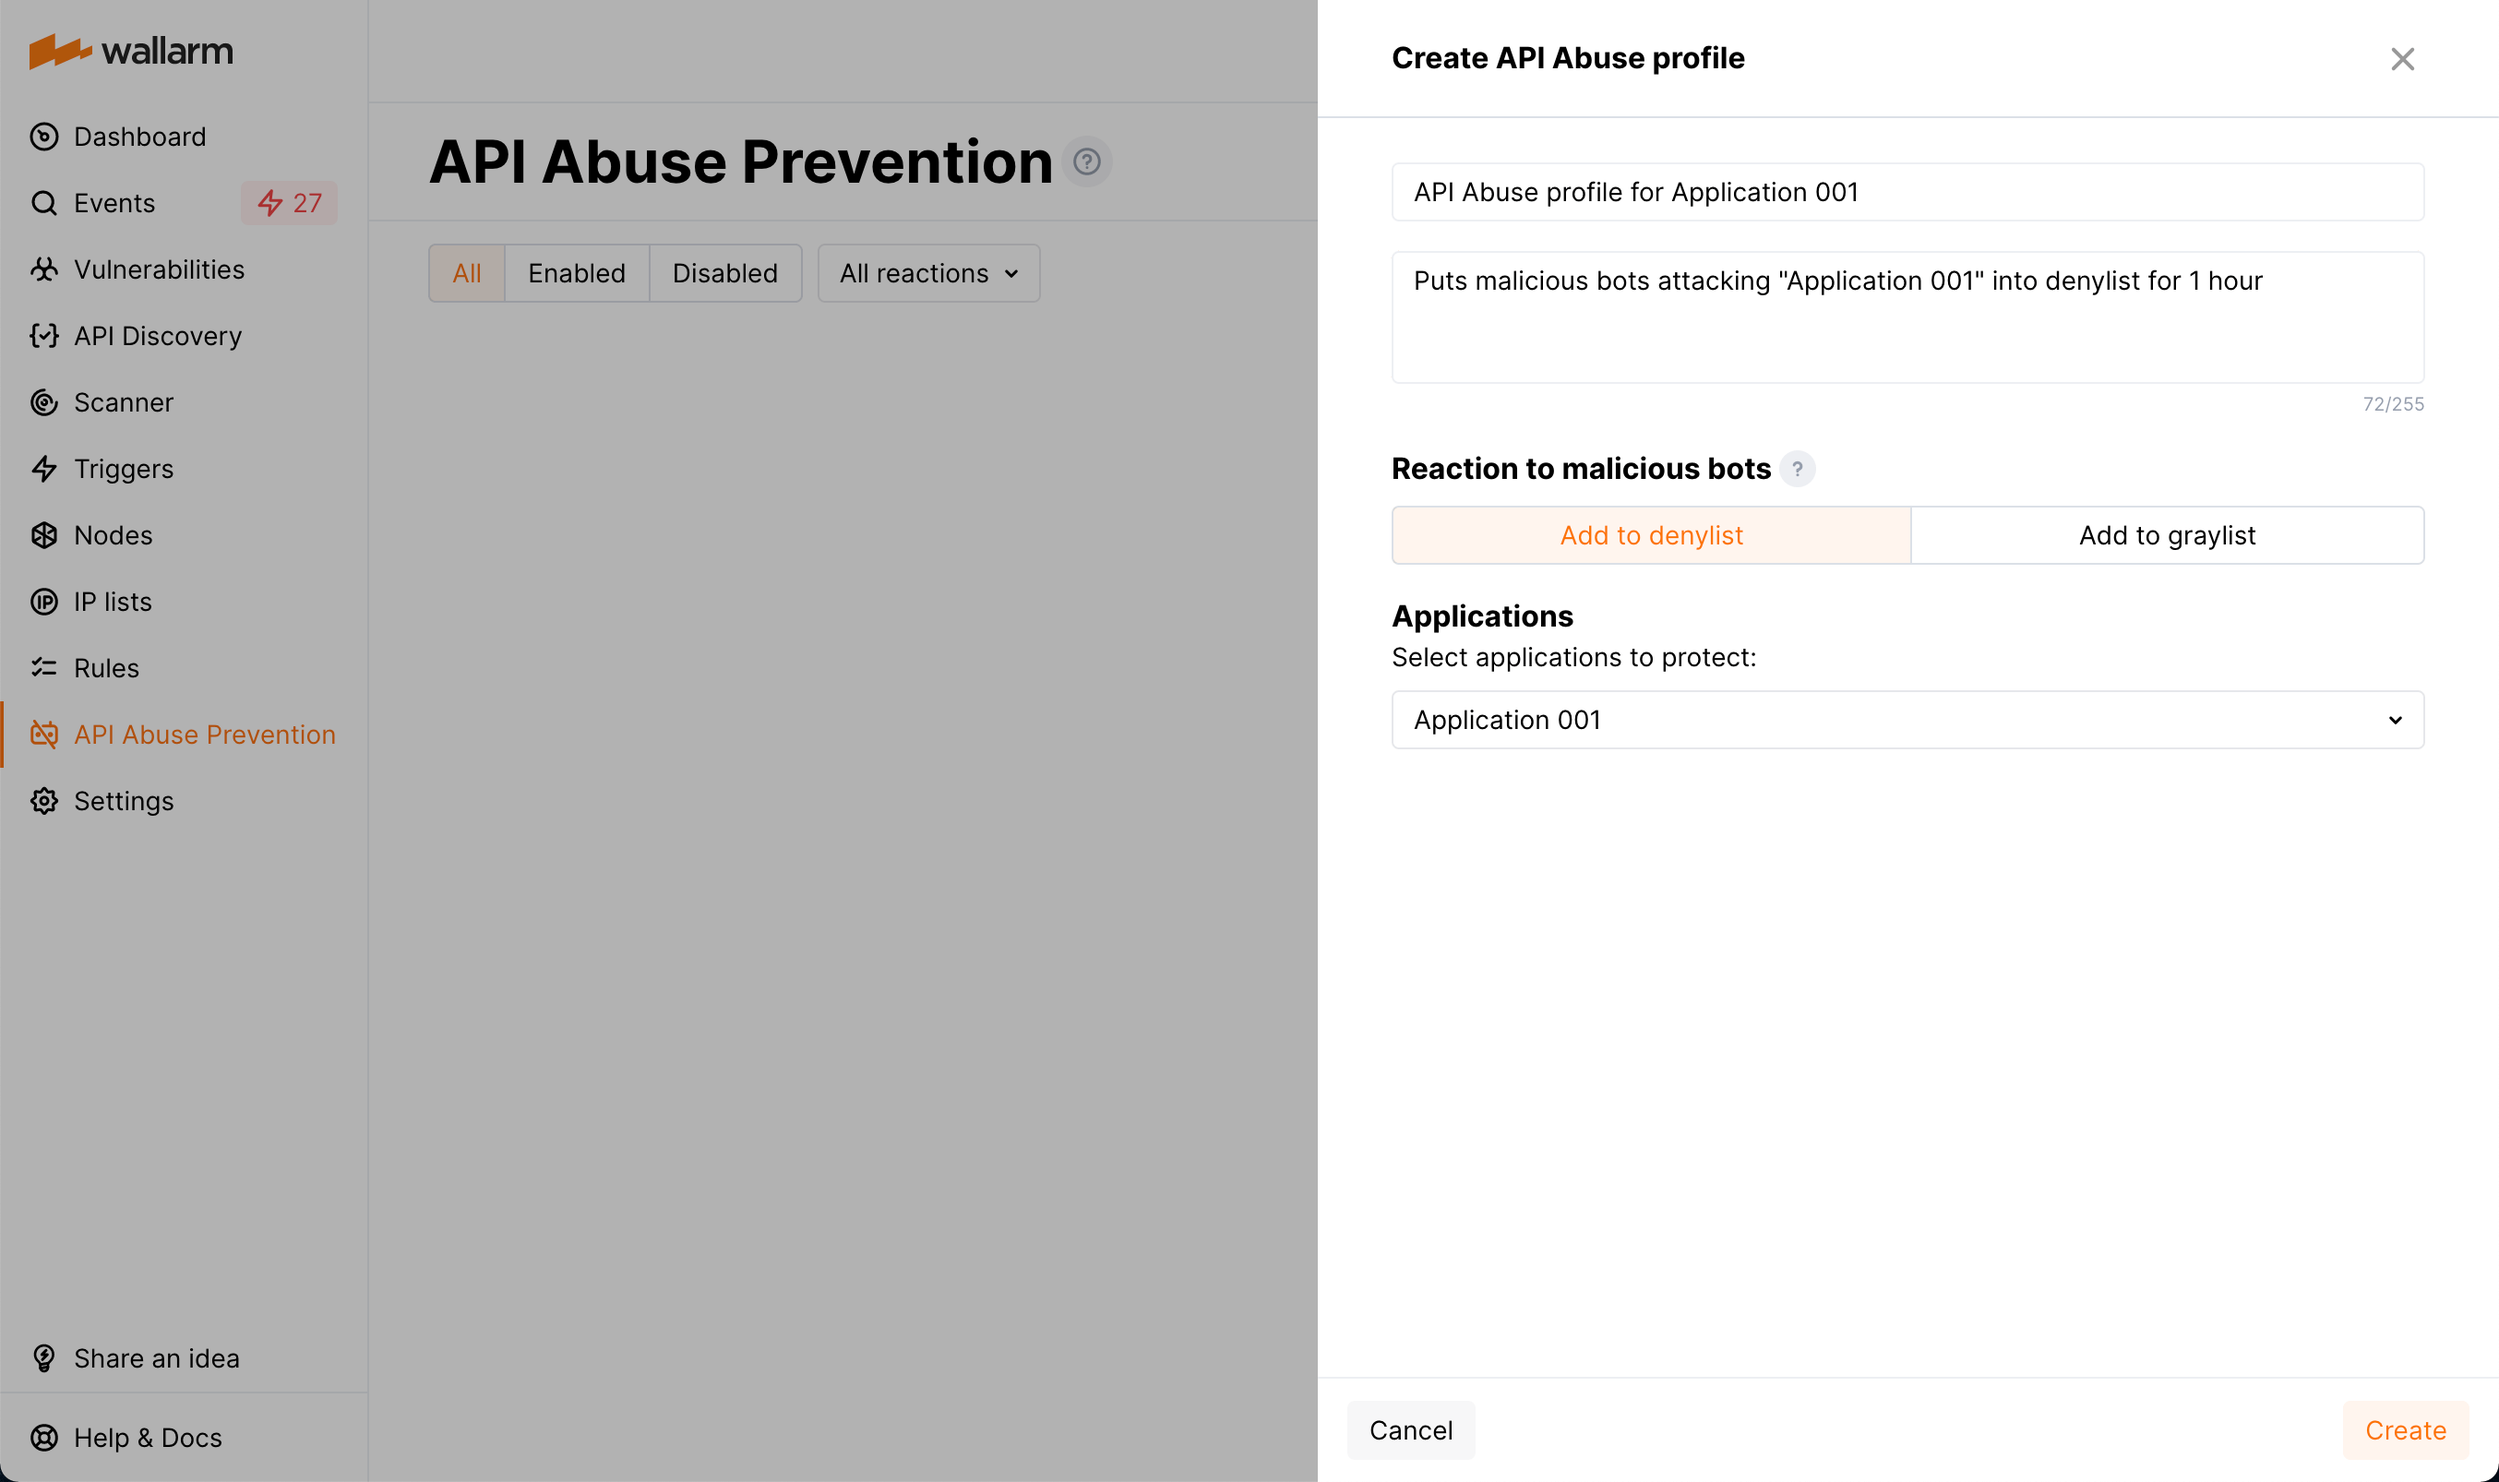
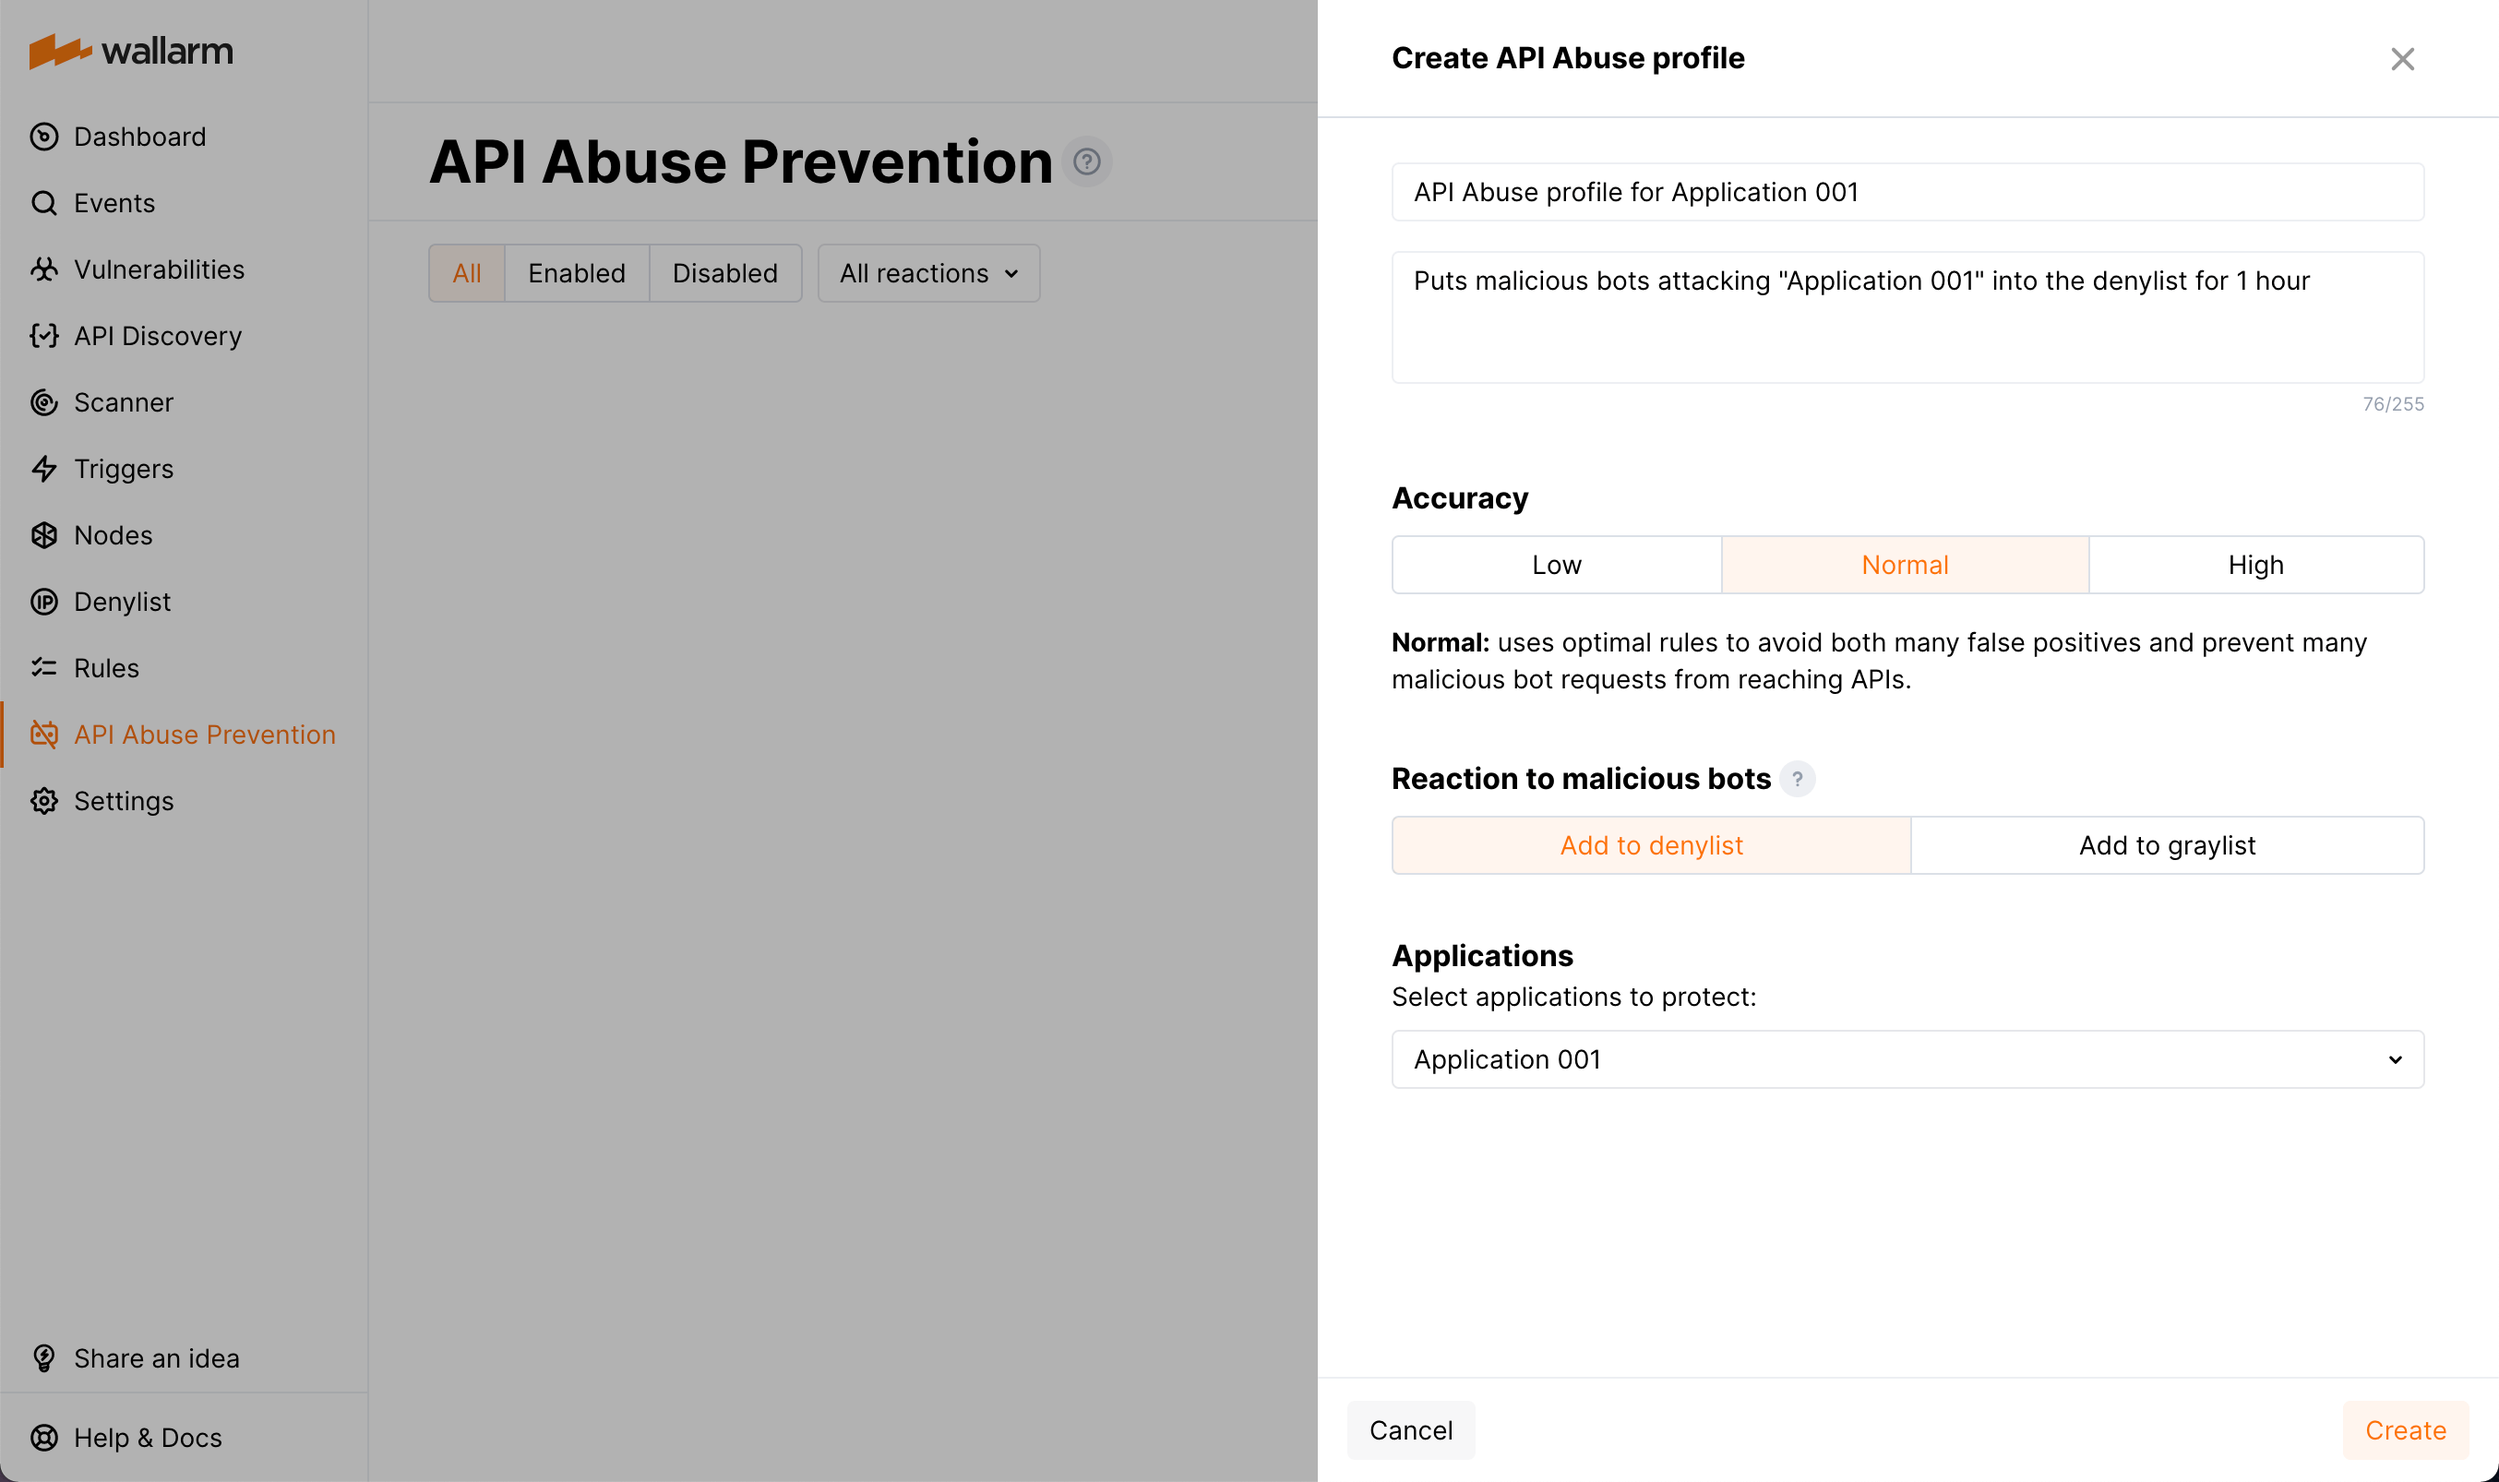
DOCS-1882 API AP - Accuracy

diff --git a/docs/latest/about-wallarm/api-abuse-prevention.md b/docs/latest/about-wallarm/api-abuse-prevention.md
@@ -48,6 +48,16 @@ To activate API Abuse Prevention:
 
     ![!API Abuse prevention profile](../images/about-wallarm-waf/abi-abuse-prevention/create-api-abuse-prevention.png)
 
+## Accuracy
+
+You can configure how strictly the signs of a malicious bot are monitored. This is set with the **Accuracy** parameter within [API Abuse profiles](../user-guides/api-abuse-prevention.md#creating-api-abuse-profile).
+
+There are three available levels:
+
+* **Low** - uses more flexible rules when considering requests originating from malicious bots. No legitimate requests will be dropped, but there is a higher risk of malicious bots' requests reaching  APIs.
+* **Normal** - optimizes rules to prevent most malicious bots' requests from reaching APIs, while avoiding excessive false positives. This is a default value.
+* **High** detects 100% of bots' requests, including possible false positives. It could potentially prevent legitimate requests from reaching APIs.
+
 ## Denylisting vs graylisting
 
 You can configure [API Abuse profiles](../user-guides/api-abuse-prevention.md#creating-api-abuse-profile) to add IPs of the detected malicious bots **for 1 hour**:

diff --git a/docs/latest/user-guides/api-abuse-prevention.md b/docs/latest/user-guides/api-abuse-prevention.md
@@ -13,6 +13,7 @@ To create an API abuse profile:
 
 1. In Wallarm Console → **API Abuse Prevention**, click **Create profile**.
 1. Select applications to protect.
+1. Select [accuracy](../about-wallarm/api-abuse-prevention.md#accuracy) of protection.
 1. Select to [add bots in denylist or graylist](../about-wallarm/api-abuse-prevention.md#denylisting-vs-graylisting).
 1. Set name and optionally description.
 
